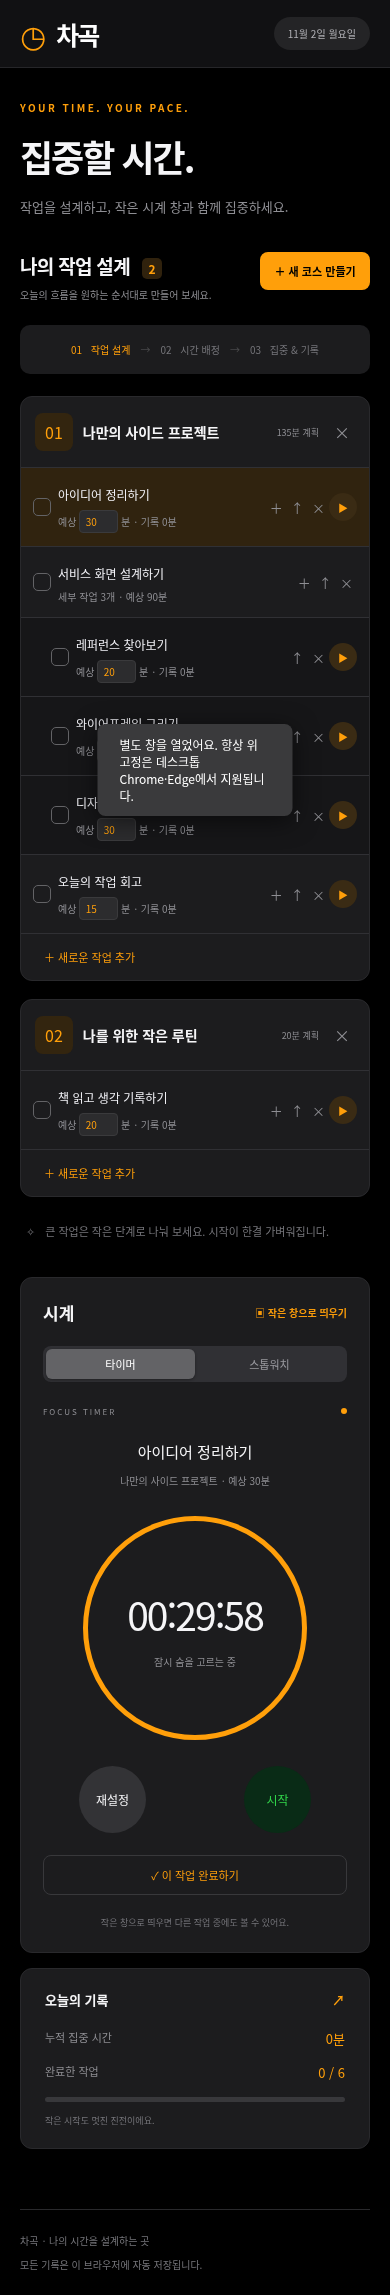
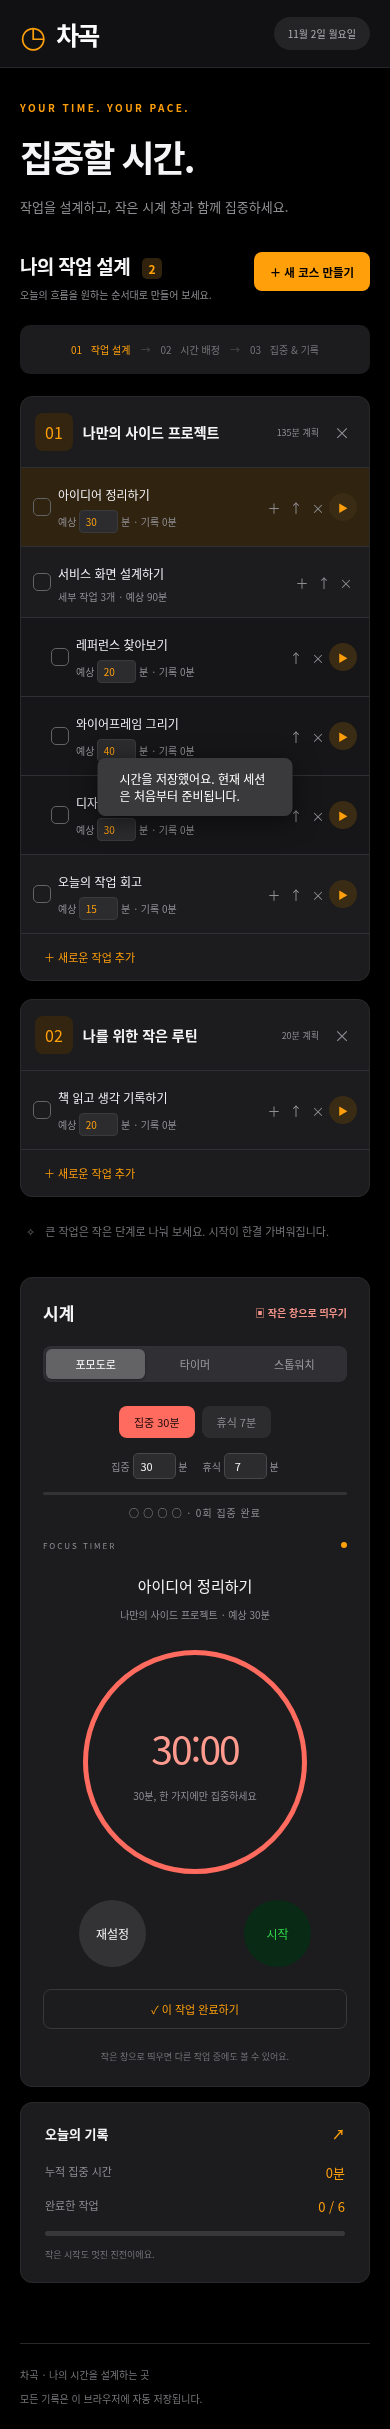
Add compact Pomodoro timer with customizable focus and break durations

diff --git a/style.css b/style.css
@@ -2,3 +2,5 @@
 :root{font-family:'Noto Sans KR',sans-serif;color:#30342e;background:#f8f9f5;font-synthesis:none}*{box-sizing:border-box}body{margin:0}button,input{font:inherit}button{cursor:pointer;border:0;background:none;color:inherit;transition:.18s}button:hover{filter:brightness(.94)}button:focus-visible,a:focus-visible{outline:3px solid #a5ba75;outline-offset:3px}header{height:85px;border-bottom:1px solid #e5e8df;background:#fff;display:flex;align-items:center;padding:0 6%;gap:32px}.brand{text-decoration:none;color:#465c35;font-size:30px;display:flex;align-items:center;gap:10px}.brand b{font-size:25px;letter-spacing:-2px}.brand span{font-size:10px;letter-spacing:2px;margin-left:5px}.header-note,.today{font-size:12px;color:#92978a}.today{margin-left:auto;color:#6c7463;background:#f2f5ed;padding:9px 14px;border-radius:20px}main{max-width:1240px;margin:auto;padding:52px 36px 0}.eyebrow{font-size:10px;font-weight:700;letter-spacing:2.4px;color:#819369}h1{font-size:39px;line-height:1.45;letter-spacing:-1.8px;font-weight:600;margin:15px 0}.intro p{color:#8b9084;font-size:13px}.intro{margin-bottom:48px}.workspace-head{display:flex;align-items:center;justify-content:space-between;margin-bottom:23px}h2{font-size:19px;letter-spacing:-.7px;margin:0}.workspace-head h2 span{font-size:12px;color:#7b8e61;background:#e9eedf;padding:2px 7px;border-radius:5px;margin-left:7px}.workspace-head p{font-size:12px;color:#969b8e;margin:8px 0 0}.primary{background:#738959;color:#fff;border-radius:8px;padding:12px 18px;font-size:12px;font-weight:600}.layout{display:grid;grid-template-columns:minmax(0,1fr) 310px;gap:28px}.steps{display:flex;align-items:center;justify-content:center;gap:26px;background:#edf0e7;padding:17px 12px;border-radius:10px;font-size:11px;color:#a0a794;margin-bottom:22px}.steps b{margin-left:6px;font-weight:500}.steps .selected{color:#617548}.steps i{font-style:normal;color:#b6beaa}.course{background:#fff;border:1px solid #e4e7dd;border-radius:12px;margin-bottom:18px;overflow:hidden}.course-heading{display:flex;align-items:center;gap:10px;padding:19px 21px;border-bottom:1px solid #eef0e9}.course-icon{background:#f4ebc8;color:#ac9455;padding:7px 10px;border-radius:8px}.course:nth-child(2n) .course-icon{background:#e8eddf;color:#839568}.course-heading h3{margin:0;font-size:14px;flex:1}.course-heading small{color:#9ca28f;font-size:10px}.muted-button{color:#a3a997;padding:5px}.task{padding:15px 20px;border-bottom:1px solid #f1f2ed;display:flex;align-items:center;gap:10px}.task.child{padding-left:49px;background:#fcfcf9}.task.active{background:#f2f5ea}.check{width:18px;height:18px;border:1px solid #d9dfce;border-radius:5px;padding:0;font-size:12px;flex-shrink:0}.done .check{background:#84986c;color:white;border-color:#84986c}.done .task-name{text-decoration:line-through;color:#a3a998}.task-main{flex:1;min-width:0}.task-name{border:0;background:transparent;width:100%;font-size:12px;color:#464e3d;padding:3px 0;outline-color:#a5ba75}.task-meta{font-size:10px;color:#9aa28d;margin-top:4px}.time-input{width:39px;padding:3px;border:1px solid #e9ecdf;border-radius:4px;color:#839369;font-size:10px;background:#fff;text-align:center}.task-play{background:#edf1e6;color:#7d9162;border-radius:50%;width:28px;height:28px;font-size:10px}.task-tools{display:flex;gap:4px;align-items:center}.task-tools .muted-button{font-size:13px}.add-task{width:100%;text-align:left;padding:15px 23px;color:#8a967b;font-size:11px}.tip{display:flex;gap:10px;padding:7px 6px;font-size:11px;line-height:1.8;color:#a4ab98}.timer-panel{background:#fff;border:1px solid #e4e7dd;border-radius:12px;padding:24px}.panel-label{font-size:9px;color:#8a9879;letter-spacing:1.9px;display:flex;justify-content:space-between;align-items:center}.live-dot{width:6px;height:6px;border-radius:50%;background:#9caf7c}.timer-panel h3{font-size:15px;margin:24px 0 8px;word-break:keep-all}.timer-panel>p{font-size:10px;color:#a3a995;line-height:1.8;min-height:18px}.clock{border:6px solid #edf1e5;border-radius:50%;width:211px;height:211px;margin:25px auto;display:flex;flex-direction:column;justify-content:center;align-items:center;box-shadow:0 0 0 1px #f7f8f3}.clock>span{font-size:31px;letter-spacing:-1px;font-variant-numeric:tabular-nums;font-weight:500}.clock small{font-size:10px;color:#9ba68a;margin-top:12px}.timer-actions{display:flex;gap:9px}.timer-actions .primary{flex:1}.icon-button{border:1px solid #e4e8db;border-radius:8px;width:41px;font-size:21px;color:#879577}.complete-button{border:1px solid #e4e8db;border-radius:8px;width:100%;font-size:11px;margin-top:10px;padding:11px;color:#81926a}.timer-foot{font-size:9px;text-align:center;color:#adb39f;margin-top:20px}.summary{border:1px solid #e4e7dd;border-radius:12px;margin-top:18px;background:#fff;padding:21px 24px}.summary h3{font-size:13px;margin:0 0 20px}.summary h3 span{float:right;color:#adb99d}.summary>div:not(.progress-track){display:flex;justify-content:space-between;font-size:11px;margin-bottom:15px;color:#9ba38e}.summary b{color:#687e4e;font-size:13px;font-weight:500}.progress-track{height:5px;background:#edf0e6;border-radius:5px;overflow:hidden}.progress-track>div{height:100%;background:#9bad83;transition:width .3s}.summary p{font-size:9px;color:#a4ac99;margin:12px 0 0}.quote{font-size:12px;text-align:center;line-height:2;color:#a2ab95;margin:26px 0}footer{border-top:1px solid #e5e8df;margin-top:60px;padding:23px 0;display:flex;justify-content:space-between;font-size:10px;color:#a4ab97}dialog{border:1px solid #e1e6d7;border-radius:16px;padding:30px;width:420px;max-width:90vw;box-shadow:0 20px 100px #29351a22}dialog::backdrop{background:#25311b55}dialog p{font-size:12px;color:#939d85}dialog label{font-size:12px;display:block;margin:25px 0}dialog input{display:block;width:100%;padding:12px;border:1px solid #dce3d1;border-radius:7px;margin-top:8px}.dialog-actions{display:flex;justify-content:flex-end;gap:15px}#toast{position:fixed;bottom:28px;left:50%;transform:translateX(-50%);background:#435635;color:white;padding:12px 22px;border-radius:8px;font-size:12px;opacity:0;pointer-events:none;transition:opacity .2s}#toast.show{opacity:1}.empty{padding:40px;text-align:center;font-size:13px;color:#909b81}@media(min-width:1500px){main{padding-top:65px}}@media(max-width:850px){main{padding:32px 20px 0}.layout{grid-template-columns:1fr}.header-note{display:none}.intro{margin-bottom:35px}h1{font-size:32px}aside{display:grid;grid-template-columns:1fr 1fr;gap:15px;align-items:start}.summary{margin-top:0}.quote{display:none}.steps{gap:15px}.task-tools{gap:0}footer{gap:20px}}@media(max-width:520px){header{height:68px;padding:0 20px}.brand span{display:none}.today{font-size:10px}.workspace-head{align-items:start;gap:10px}.workspace-head .primary{padding:10px;font-size:10px}.workspace-head p{font-size:10px}aside{grid-template-columns:1fr}.steps{gap:10px;font-size:10px}.task{padding:13px 12px;gap:7px}.task.child{padding-left:30px}.course-heading{padding:16px 14px}.course-heading small{font-size:9px}.task-tools .muted-button{padding:3px}footer{flex-direction:column;gap:9px}}
 /* Clock-inspired dark appearance */
 :root{font-family:-apple-system,BlinkMacSystemFont,'Noto Sans KR',sans-serif;color:#f5f5f7;background:#000}header{background:#111113;border-color:#262629}.brand{color:#ff9f0a}.brand b{color:#fff}.header-note{color:#8e8e93}.today{background:#242426;color:#b0b0b5}.eyebrow{color:#ff9f0a}.intro p,.workspace-head p{color:#8e8e93}h1{font-weight:600;letter-spacing:-2px;font-size:48px}.intro{margin-bottom:36px}.workspace-head h2 span{background:#30220d;color:#ff9f0a}.primary{background:#ff9f0a;color:#000}.steps{background:#1c1c1e;color:#747479}.steps .selected{color:#ff9f0a}.steps i{color:#48484a}.course{background:#1c1c1e;border-color:#29292c}.course-heading{border-color:#303034}.course-icon,.course:nth-child(2n) .course-icon{background:#33250f;color:#ff9f0a}.course-heading small{color:#8e8e93}.task{border-color:#303034}.task.child{background:#161618}.task.active{background:#30230f}.task-name{color:#f2f2f7}.task-meta{color:#8e8e93}.time-input{background:#2c2c2e;border-color:#3a3a3c;color:#ff9f0a}.task-play{background:#3a2b14;color:#ff9f0a}.check{border-color:#636366}.done .check{background:#ff9f0a;border-color:#ff9f0a;color:#000}.done .task-name{color:#636366}.muted-button{color:#8e8e93}.add-task{color:#ff9f0a}.tip{color:#747479}.timer-panel{background:#1c1c1e;border-color:#29292c;padding:22px}.timer-topbar{display:flex;align-items:center;justify-content:space-between;margin-bottom:21px;font-size:17px;font-weight:600}.timer-topbar button{color:#ff9f0a;font-size:10px;padding:5px 0}.clock-tabs{display:flex;background:#303034;border-radius:8px;padding:3px;margin-bottom:24px}.clock-tabs button{flex:1;color:#99999f;font-size:11px;padding:7px;border-radius:6px}.clock-tabs .tab-active{background:#636366;color:#fff;box-shadow:0 1px 3px #0005}.panel-label{color:#8e8e93;font-size:8px;letter-spacing:2px}.live-dot{background:#ff9f0a}.timer-panel h3{text-align:center;font-weight:500;margin-top:24px}.timer-panel>p{text-align:center;color:#8e8e93}.clock{border:5px solid #ff9f0a;box-shadow:none;width:224px;height:224px;margin:26px auto}.clock>span{font-size:39px;font-weight:200;letter-spacing:-2px}.clock small{color:#8e8e93;font-size:10px}.timer-actions{justify-content:space-between;max-width:232px;margin:auto}.timer-actions .primary,.icon-button{border:0;border-radius:50%;width:67px;height:67px;flex:none;font-size:12px;font-weight:400;padding:0}.timer-actions .primary{background:#092b16;color:#32d74b}.timer-actions .primary.running{background:#332000;color:#ff9f0a}.icon-button{background:#333336;color:#f5f5f7}.complete-button{border-color:#38383b;color:#ff9f0a;margin-top:22px}.timer-foot{color:#747479;font-size:9px;line-height:1.7}.summary{background:#1c1c1e;border-color:#29292c}.summary h3 span{color:#ff9f0a}.summary>div:not(.progress-track){color:#8e8e93}.summary b{color:#ff9f0a}.progress-track{background:#38383b}.progress-track>div{background:#ff9f0a}.summary p,.quote{color:#747479}footer{border-color:#29292c;color:#747479}dialog{background:#1c1c1e;color:#fff;border-color:#38383b}dialog input{background:#303034;color:#fff;border-color:#48484a}dialog p{color:#8e8e93}#toast{background:#3a3a3c;color:#fff;box-shadow:0 5px 25px #0008}.empty{color:#8e8e93}.layout{grid-template-columns:minmax(0,1fr) 330px}@media(max-width:850px){.layout{grid-template-columns:1fr}h1{font-size:39px}}@media(max-width:520px){h1{font-size:36px}}
+.pomo-tabs{display:flex;justify-content:center;gap:7px;margin:8px 0 15px}.pomo-tabs button{padding:8px 15px;background:#2c2c2e;color:#8e8e93;border-radius:8px;font-size:11px}.pomo-tabs .selected{background:#ff6b5e;color:#1c0b09}.pomo-track{height:3px;background:#333;border-radius:3px;overflow:hidden}.pomo-track div{height:100%;background:#ff6b5e}#pomo-count{text-align:center;font-size:10px;letter-spacing:1px;color:#8e8e93;margin:10px 0 20px}.clock{border-color:#ff6b5e}.clock>span{color:#ff9a8f}.timer-panel .timer-topbar button{color:#ff9a8f}
+.pomo-settings{display:flex;justify-content:center;gap:15px;color:#8e8e93;font-size:10px;margin:0 0 13px}.pomo-settings input{background:#2c2c2e;color:#f5f5f7;border:1px solid #48484a;border-radius:5px;width:43px;padding:4px;text-align:center;font-size:11px}

diff --git a/index.html b/index.html
@@ -1,1 +1,1 @@
-<!doctype html><html lang="ko"><head><meta charset="UTF-8"><meta name="viewport" content="width=device-width,initial-scale=1"><title>차곡 · 시계</title><link rel="stylesheet" href="/style.css"></head><body><header><a class="brand" href="/">◷ <b>차곡</b><span>CHAGOK</span></a><span class="header-note">나만의 흐름을 만드는 시계</span><span class="today" id="date"></span></header><main><section class="intro"><div class="eyebrow">YOUR TIME. YOUR PACE.</div><h1>집중할 시간.</h1><p>작업을 설계하고, 작은 시계 창과 함께 집중하세요.</p></section><div class="workspace-head"><div><h2>나의 작업 설계 <span id="course-count"></span></h2><p>오늘의 흐름을 원하는 순서대로 만들어 보세요.</p></div><button class="primary" id="add-course">＋ 새 코스 만들기</button></div><div class="layout"><section><div class="steps"><span class="selected">01 <b>작업 설계</b></span><i>→</i><span>02 <b>시간 배정</b></span><i>→</i><span>03 <b>집중 & 기록</b></span></div><div id="courses"></div><div class="tip">✧ <span>큰 작업은 작은 단계로 나눠 보세요. 시작이 한결 가벼워집니다.</span></div></section><aside><div class="timer-panel"><div class="timer-topbar"><span>시계</span><button id="float-timer" title="항상 위에 표시되는 작은 창 열기">▣ 작은 창으로 띄우기</button></div><div class="clock-tabs"><button id="mode-timer" class="tab-active">타이머</button><button id="mode-stopwatch">스톱워치</button></div><div class="panel-label"><span>FOCUS TIMER</span><span class="live-dot"></span></div><h3 id="focus-name">집중할 작업을 선택하세요</h3><p id="focus-course">작업 옆 재생 버튼을 눌러 시작하세요</p><div class="clock"><span id="timer">00:00:00</span><small id="timer-state">준비되셨나요?</small></div><div class="timer-actions"><button class="icon-button" id="reset" aria-label="현재 작업 시간 초기화">재설정</button><button class="primary" id="toggle">시작</button></div><button class="complete-button" id="complete">✓ 이 작업 완료하기</button><div class="timer-foot">작은 창으로 띄우면 다른 작업 중에도 볼 수 있어요.</div></div><div class="summary"><h3>오늘의 기록 <span>↗</span></h3><div><span>누적 집중 시간</span><b id="total-time">0분</b></div><div><span>완료한 작업</span><b id="done-count">0 / 0</b></div><div class="progress-track"><div id="progress"></div></div><p id="encouragement">작은 시작도 멋진 진전이에요.</p></div><div class="quote">“시간을 채우기보다,<br>의미 있는 순간을 쌓아가요.”</div></aside></div><footer><span>차곡 · 나의 시간을 설계하는 곳</span><span>모든 기록은 이 브라우저에 자동 저장됩니다.</span></footer></main><dialog id="course-dialog"><form id="course-form"><h2>새로운 코스</h2><p>함께 진행할 작업들을 하나의 코스로 묶어보세요.</p><label>코스 이름<input id="course-title" required maxlength="60" placeholder="예: 사이드 프로젝트 만들기"></label><div class="dialog-actions"><button type="button" id="cancel-dialog">취소</button><button class="primary">만들기</button></div></form></dialog><div id="toast" role="status"></div><script type="module" src="/app.js"></script></body></html>
+<!doctype html><html lang="ko"><head><meta charset="UTF-8"><meta name="viewport" content="width=device-width,initial-scale=1"><title>차곡 · 시계</title><link rel="stylesheet" href="/style.css"></head><body><header><a class="brand" href="/">◷ <b>차곡</b><span>CHAGOK</span></a><span class="header-note">나만의 흐름을 만드는 시계</span><span class="today" id="date"></span></header><main><section class="intro"><div class="eyebrow">YOUR TIME. YOUR PACE.</div><h1>집중할 시간.</h1><p>작업을 설계하고, 작은 시계 창과 함께 집중하세요.</p></section><div class="workspace-head"><div><h2>나의 작업 설계 <span id="course-count"></span></h2><p>오늘의 흐름을 원하는 순서대로 만들어 보세요.</p></div><button class="primary" id="add-course">＋ 새 코스 만들기</button></div><div class="layout"><section><div class="steps"><span class="selected">01 <b>작업 설계</b></span><i>→</i><span>02 <b>시간 배정</b></span><i>→</i><span>03 <b>집중 & 기록</b></span></div><div id="courses"></div><div class="tip">✧ <span>큰 작업은 작은 단계로 나눠 보세요. 시작이 한결 가벼워집니다.</span></div></section><aside><div class="timer-panel"><div class="timer-topbar"><span>시계</span><button id="float-timer" title="항상 위에 표시되는 작은 창 열기">▣ 작은 창으로 띄우기</button></div><div class="clock-tabs"><button id="mode-pomodoro" class="tab-active">포모도로</button><button id="mode-timer">타이머</button><button id="mode-stopwatch">스톱워치</button></div><div id="pomo-controls"><div class="pomo-tabs"><button id="pomo-focus" class="selected">집중 25분</button><button id="pomo-break">휴식 5분</button></div><div class="pomo-settings"><label>집중 <input id="focus-minutes" type="number" min="1" max="180" value="25" aria-label="집중 시간 (분)"> 분</label><label>휴식 <input id="break-minutes" type="number" min="1" max="180" value="5" aria-label="휴식 시간 (분)"> 분</label></div><div class="pomo-track"><div id="pomo-progress"></div></div><p id="pomo-count"></p></div><div class="panel-label"><span>FOCUS TIMER</span><span class="live-dot"></span></div><h3 id="focus-name">집중할 작업을 선택하세요</h3><p id="focus-course">작업 옆 재생 버튼을 눌러 시작하세요</p><div class="clock"><span id="timer">00:00:00</span><small id="timer-state">준비되셨나요?</small></div><div class="timer-actions"><button class="icon-button" id="reset" aria-label="현재 작업 시간 초기화">재설정</button><button class="primary" id="toggle">시작</button></div><button class="complete-button" id="complete">✓ 이 작업 완료하기</button><div class="timer-foot">작은 창으로 띄우면 다른 작업 중에도 볼 수 있어요.</div></div><div class="summary"><h3>오늘의 기록 <span>↗</span></h3><div><span>누적 집중 시간</span><b id="total-time">0분</b></div><div><span>완료한 작업</span><b id="done-count">0 / 0</b></div><div class="progress-track"><div id="progress"></div></div><p id="encouragement">작은 시작도 멋진 진전이에요.</p></div><div class="quote">“시간을 채우기보다,<br>의미 있는 순간을 쌓아가요.”</div></aside></div><footer><span>차곡 · 나의 시간을 설계하는 곳</span><span>모든 기록은 이 브라우저에 자동 저장됩니다.</span></footer></main><dialog id="course-dialog"><form id="course-form"><h2>새로운 코스</h2><p>함께 진행할 작업들을 하나의 코스로 묶어보세요.</p><label>코스 이름<input id="course-title" required maxlength="60" placeholder="예: 사이드 프로젝트 만들기"></label><div class="dialog-actions"><button type="button" id="cancel-dialog">취소</button><button class="primary">만들기</button></div></form></dialog><div id="toast" role="status"></div><script type="module" src="/app.js"></script></body></html>

diff --git a/README.md b/README.md
@@ -35,3 +35,7 @@ npm start
 오른쪽 시계의 **작은 창으로 띄우기** 버튼을 누르세요. 데스크톱 Chrome·Edge의 Document Picture-in-Picture 지원 환경(HTTPS 또는 localhost)에서는 다른 창 위에 고정되는 창으로 열립니다. 브라우저가 지원하지 않으면 일반 별도 팝업으로 열리며, 이 경우 항상 위 고정은 제공하지 않습니다. 팝업 차단 시 해당 사이트의 팝업을 허용해 주세요. 원래 앱 탭을 닫으면 작은 창의 작동도 종료됩니다.
 
 ![작은 시계 창](screenshots/chagok-floating.png)
+
+## 포모도로
+
+기본 집중 25분·휴식 5분으로 시작합니다. 본 화면과 작은 창에서 각각 1~180분으로 설정할 수 있으며 브라우저에 자동 저장됩니다. 현재 단계의 시간을 바꾸면 측정을 멈추고 해당 세션을 초기화하며, 누적 작업 시간은 유지합니다. 집중 종료 시 완료 횟수를 기록하고 휴식 준비로 전환합니다. 다음 단계는 시작 버튼을 눌러 진행합니다. 휴식은 작업 집중 시간에 포함되지 않습니다.
